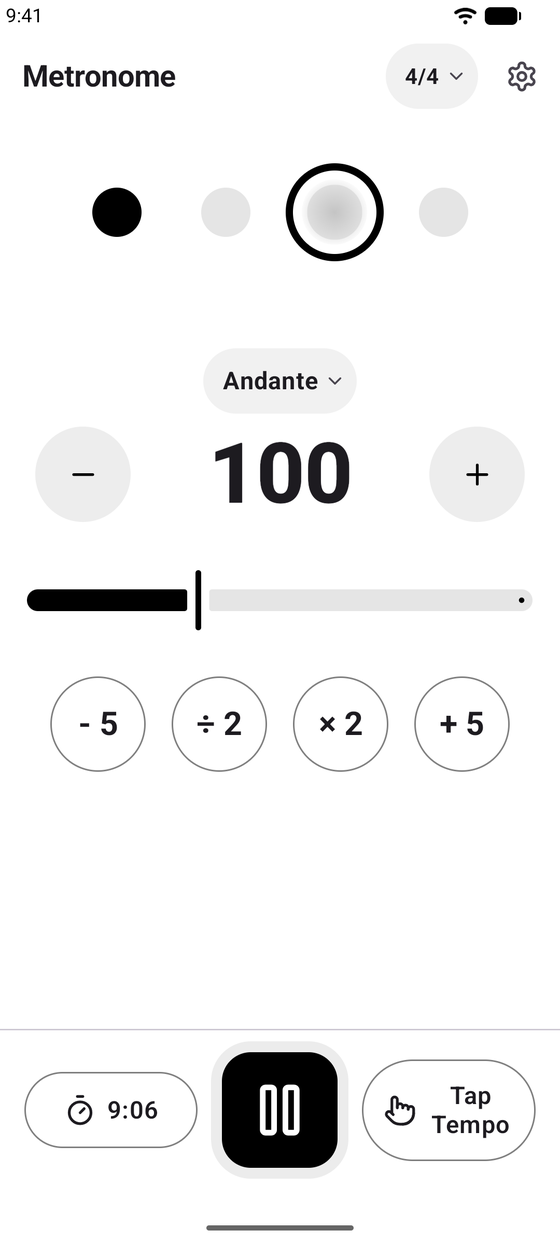
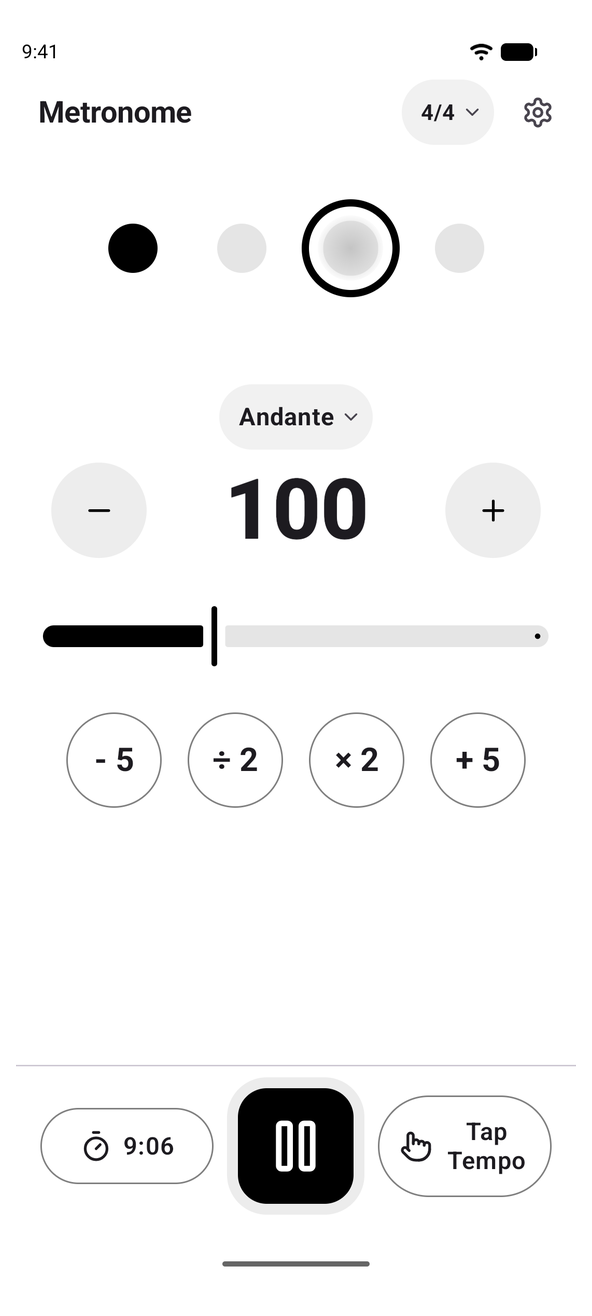
feat(site): the spec rows speak the app's own chip language, and the device keeps its status bar
The page listed the app's options as prose while the app itself draws them as
chips. Time signatures, subdivisions, per-beat states and click sounds are now
chip groups, each showing the app's default as a filled chip the way the
product marks a selection. This borrows the product's vocabulary rather than
inventing a shape for the same data, which is what made the page read flat: it
described an instrument in paragraphs.

Chips are exactly one 28px band, so a row that wraps still lands on the lattice
-- measured 28 and 56 at every width, never an off-grid value. The label is
pinned against wrapping, because the chip group was otherwise squeezing "Time
signatures" onto two lines at 390.

The hero device was clipping its own status bar: the capture runs content to
the pixel edge, and a 29px screen radius on a 266px-wide screen is 10.9% of the
width where a real iPhone is about 4.7%, so the corner curve ate the "9" of
9:41 and the battery. Rather than flatten the frame to a dated radius, the
capture gets the bezel margin a real screen has -- padded in its own status-bar
white, aspect ratio preserved to four decimals.

Also drops the U+2192 in the tempo-trainer row: the subset webfont has no glyph
for it, so it was rendering in a fallback face.

Chip contrast 21.00:1 and 18.88:1 light, 15.29:1 and 16.64:1 dark. Clean across
both appearances at 390/768/1024/1240/1440/1920.

diff --git a/docs/index.html b/docs/index.html
@@ -376,7 +376,7 @@
         }
         .screen img { border-radius: 29px; box-shadow: inset 0 0 0 1px rgba(255,255,255,.14); }
         /* Reserve the box before a lazy image arrives, so nothing reflows. */
-        .screen img { width: 100%; height: auto; aspect-ratio: 560 / 1244; }
+        .screen img { width: 100%; height: auto; aspect-ratio: 592 / 1316; }
 
         .specs { list-style: none; margin-top: var(--lh); max-width: var(--measure); }
         .specs li {
@@ -384,6 +384,23 @@
             font-size: 15px; line-height: var(--lh);
         }
         .specs li span:last-child { color: var(--ink-2); text-align: right; }
+        /* The app draws these as selectable chips; the page borrows that
+           vocabulary rather than inventing a shape for the same data. Each chip
+           is exactly one 28px band, so a wrapped row stays on the lattice. */
+        .chips { display: flex; flex-wrap: wrap; justify-content: flex-end; gap: 0 6px; }
+        /* The label holds its line and the chips wrap around it; without this the
+           chip group squeezes "Time signatures" onto two lines at 390. */
+        .specs li > span:first-child { white-space: nowrap; flex: none; }
+        .chip {
+            display: inline-flex; align-items: center; height: var(--lh);
+            padding: 0 11px; border-radius: 999px;
+            font-size: 13px; font-weight: 600; font-variant-numeric: tabular-nums;
+            color: var(--ink); background: var(--paper);
+            box-shadow: inset 0 0 0 1px var(--rule);
+        }
+        /* One chip per group shows the app's default, the way the product marks
+           a current selection: filled, not outlined. */
+        .chip.is-on { color: var(--ground); background: var(--ink); box-shadow: none; }
         /* The accent marks progression wherever it appears, so one green glyph
            becomes a system rather than an accident. */
         .specs li.is-live span:last-child { color: var(--accent-ink); font-weight: 600; }
@@ -546,7 +563,7 @@ FINISH: unreviewed and undocumented is unfinished; this build ends with the fini
                 <p class="aside">An example entry. Your own practice time and streak are recorded on your device.</p>
             </div>
             <div class="screen screen--hero">
-                <img src="screenshots/app-main.png" width="560" height="1244" fetchpriority="high" alt="The metronome screen running at 100 BPM in 4/4, marked Andante: four beat dots with the first accented, the tempo slider and fine steps, and a bottom bar holding a 9:06 timer, pause, and tap tempo.">
+                <img src="screenshots/app-main.png" width="592" height="1316" fetchpriority="high" alt="The metronome screen running at 100 BPM in 4/4, marked Andante: four beat dots with the first accented, the tempo slider and fine steps, and a bottom bar holding a 9:06 timer, pause, and tap tempo.">
             </div>
         </div>
 
@@ -569,10 +586,10 @@ FINISH: unreviewed and undocumented is unfinished; this build ends with the fini
                 <p class="say field">Set the tempo, tap it in, or shape it bar by bar. Every beat can be accented or muted, and the pulse is scheduled against a monotonic clock, so it does not wander as a session runs long.</p>
                 <ul class="specs field">
                     <li><span>Tempo range</span><span>40 to 220 BPM</span></li>
-                    <li><span>Time signatures</span><span>2/4, 3/4, 4/4, 5/4, 6/8, 7/8</span></li>
-                    <li><span>Subdivisions</span><span>Quarter, eighths, triplets, sixteenths</span></li>
-                    <li><span>Per beat</span><span>Accent, normal, mute</span></li>
-                    <li><span>Click sounds</span><span>Wood, Click, Classic</span></li>
+                    <li><span>Time signatures</span><span class="chips"><b class="chip">2/4</b><b class="chip">3/4</b><b class="chip is-on">4/4</b><b class="chip">5/4</b><b class="chip">6/8</b><b class="chip">7/8</b></span></li>
+                    <li><span>Subdivisions</span><span class="chips"><b class="chip is-on">Quarter</b><b class="chip">Eighths</b><b class="chip">Triplets</b><b class="chip">Sixteenths</b></span></li>
+                    <li><span>Per beat</span><span class="chips"><b class="chip is-on">Accent</b><b class="chip">Normal</b><b class="chip">Mute</b></span></li>
+                    <li><span>Click sounds</span><span class="chips"><b class="chip is-on">Wood</b><b class="chip">Click</b><b class="chip">Classic</b></span></li>
                 </ul>
                 <div class="scale">
                     <div class="scale-track" role="img" aria-label="Tempo markings across the range: Largo from 40, Adagio from 66, Andante from 76, Moderato from 108, Allegro from 120, Presto from 168, Prestissimo from 201 to 220 BPM.">
@@ -615,7 +632,7 @@ FINISH: unreviewed and undocumented is unfinished; this build ends with the fini
                 <h2>Take it up two at a time.</h2>
                 <p class="say field">Give the Tempo Trainer a start, a target, a step and how many complete bars to hold, and it moves the tempo for you while you play. A passage travels from careful to performance speed without you stopping to change the number.</p>
                 <ul class="specs field">
-                    <li class="is-live"><span>Example climb</span><span>80 → 120 BPM</span></li>
+                    <li class="is-live"><span>Example climb</span><span>80 to 120 BPM</span></li>
                     <li><span>Step</span><span>+2 every 4 bars</span></li>
                     <li><span>Length</span><span>80 bars, about 3 minutes</span></li>
                 </ul>
